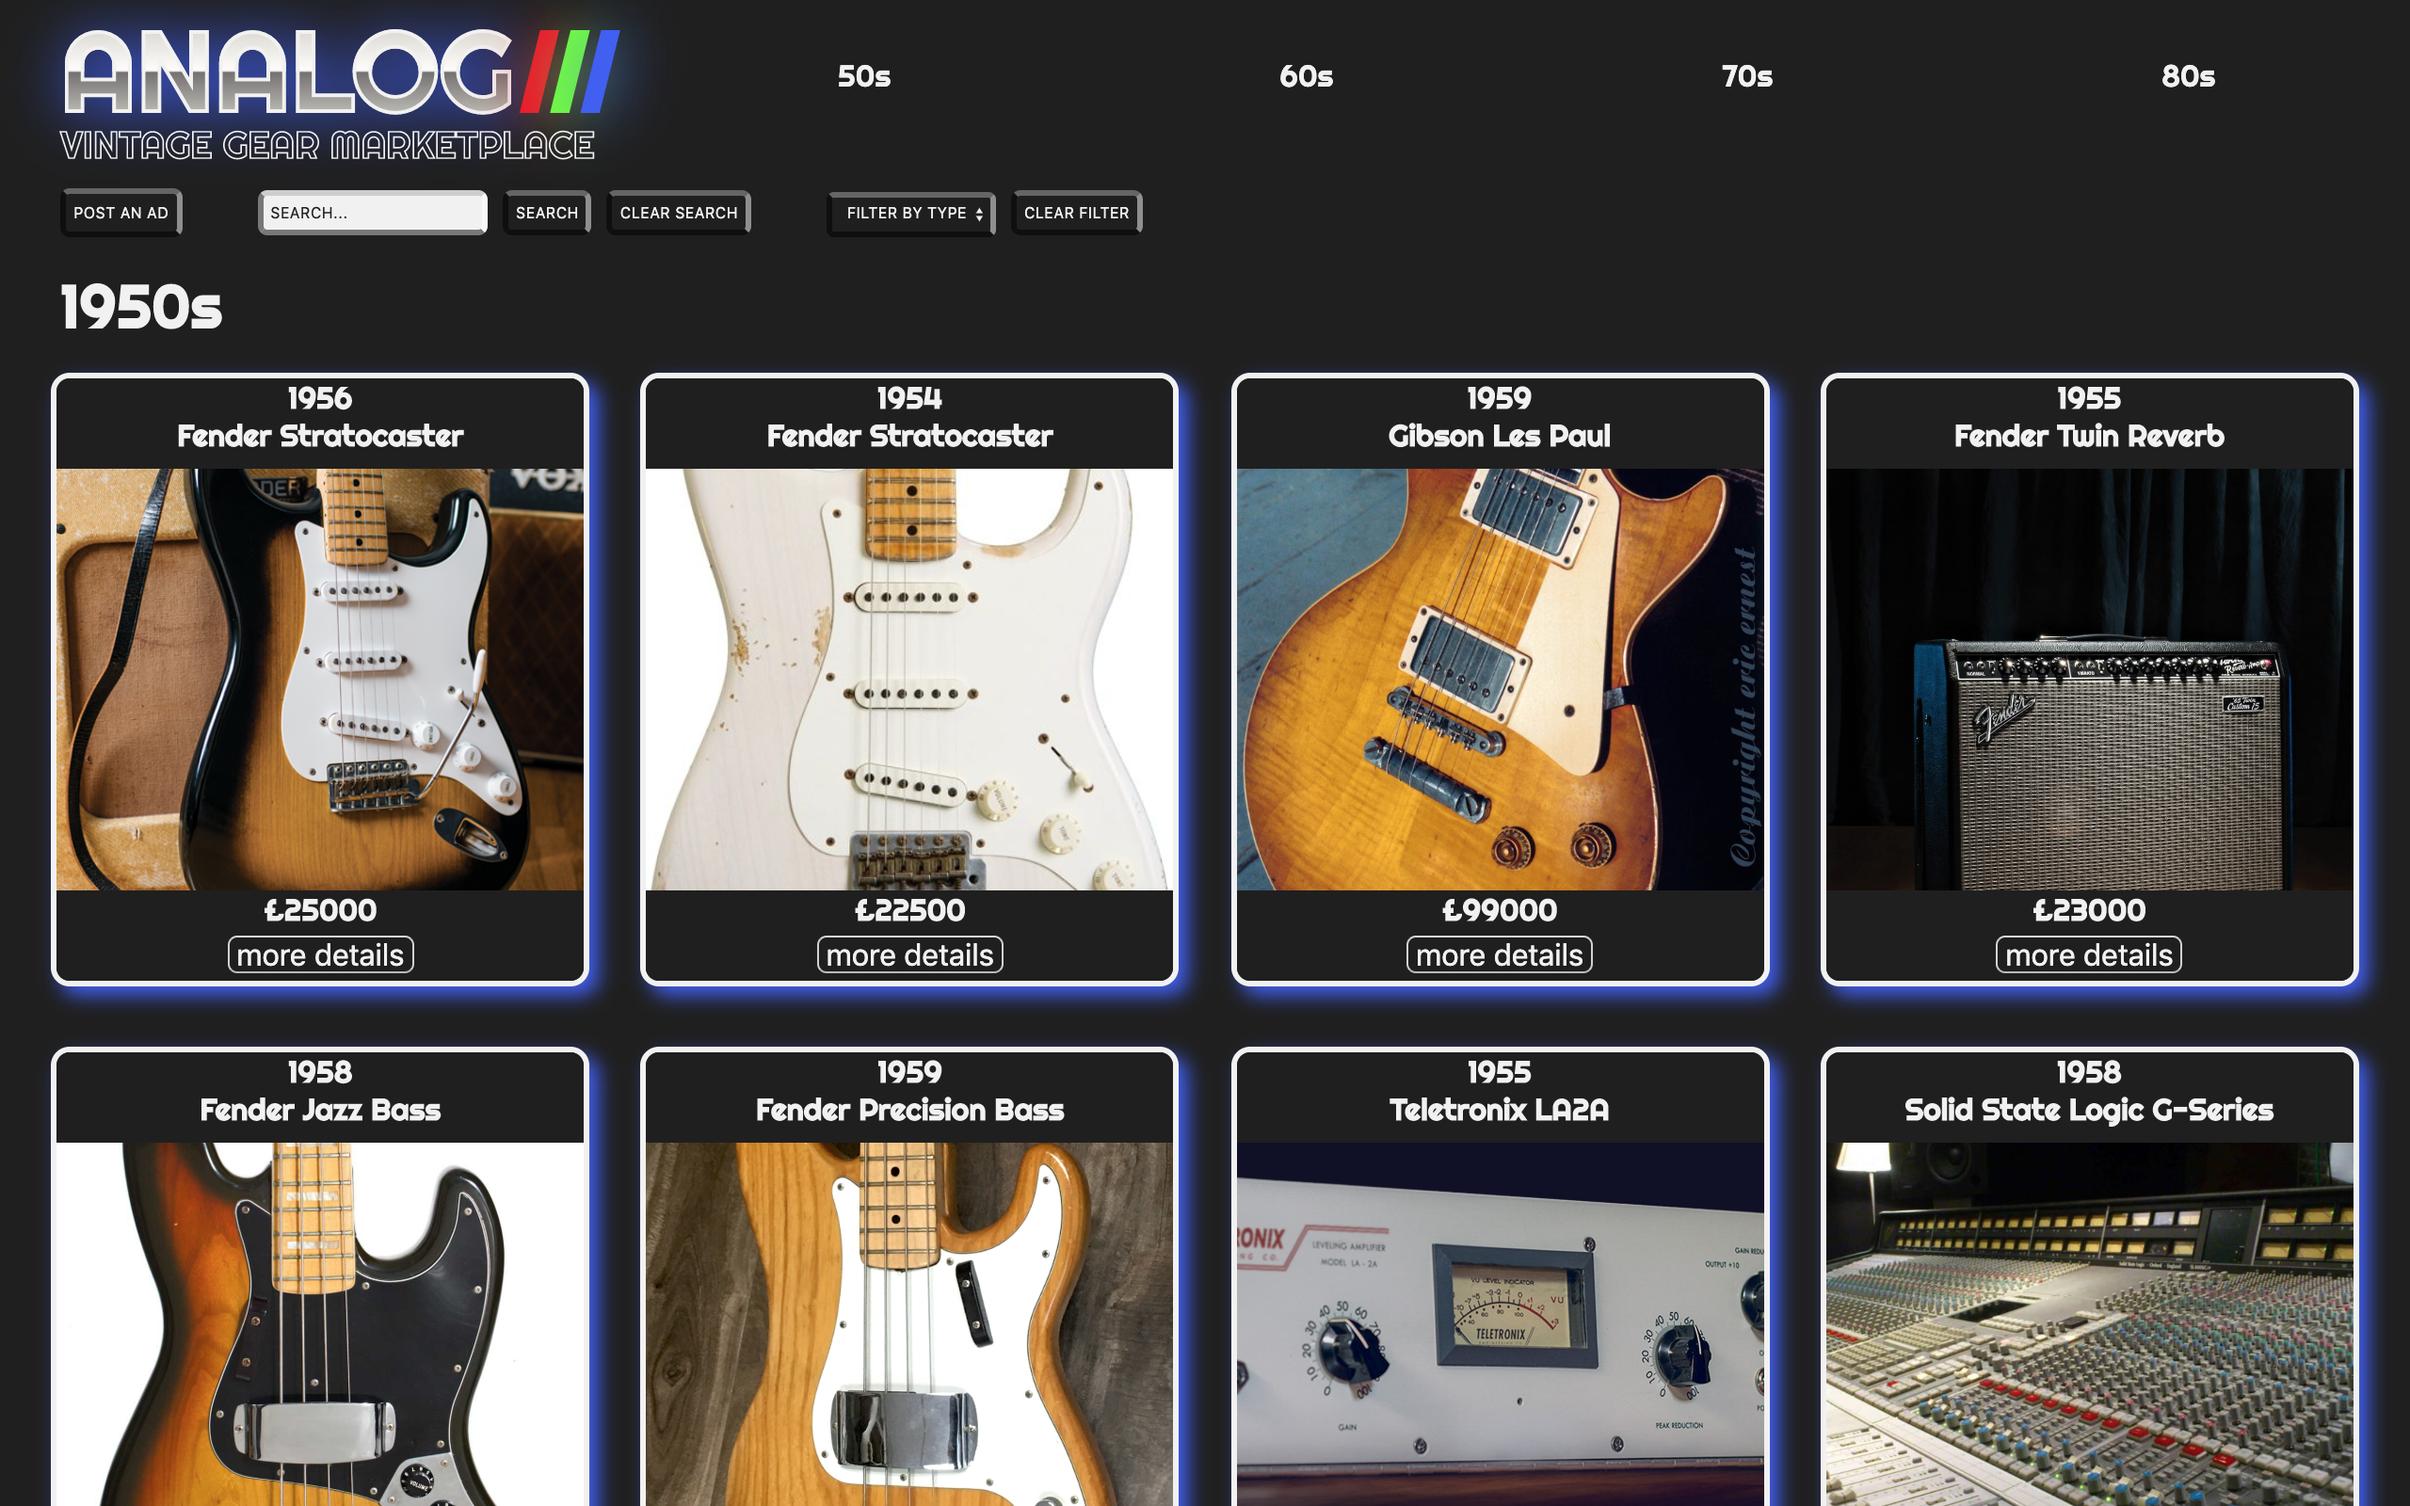
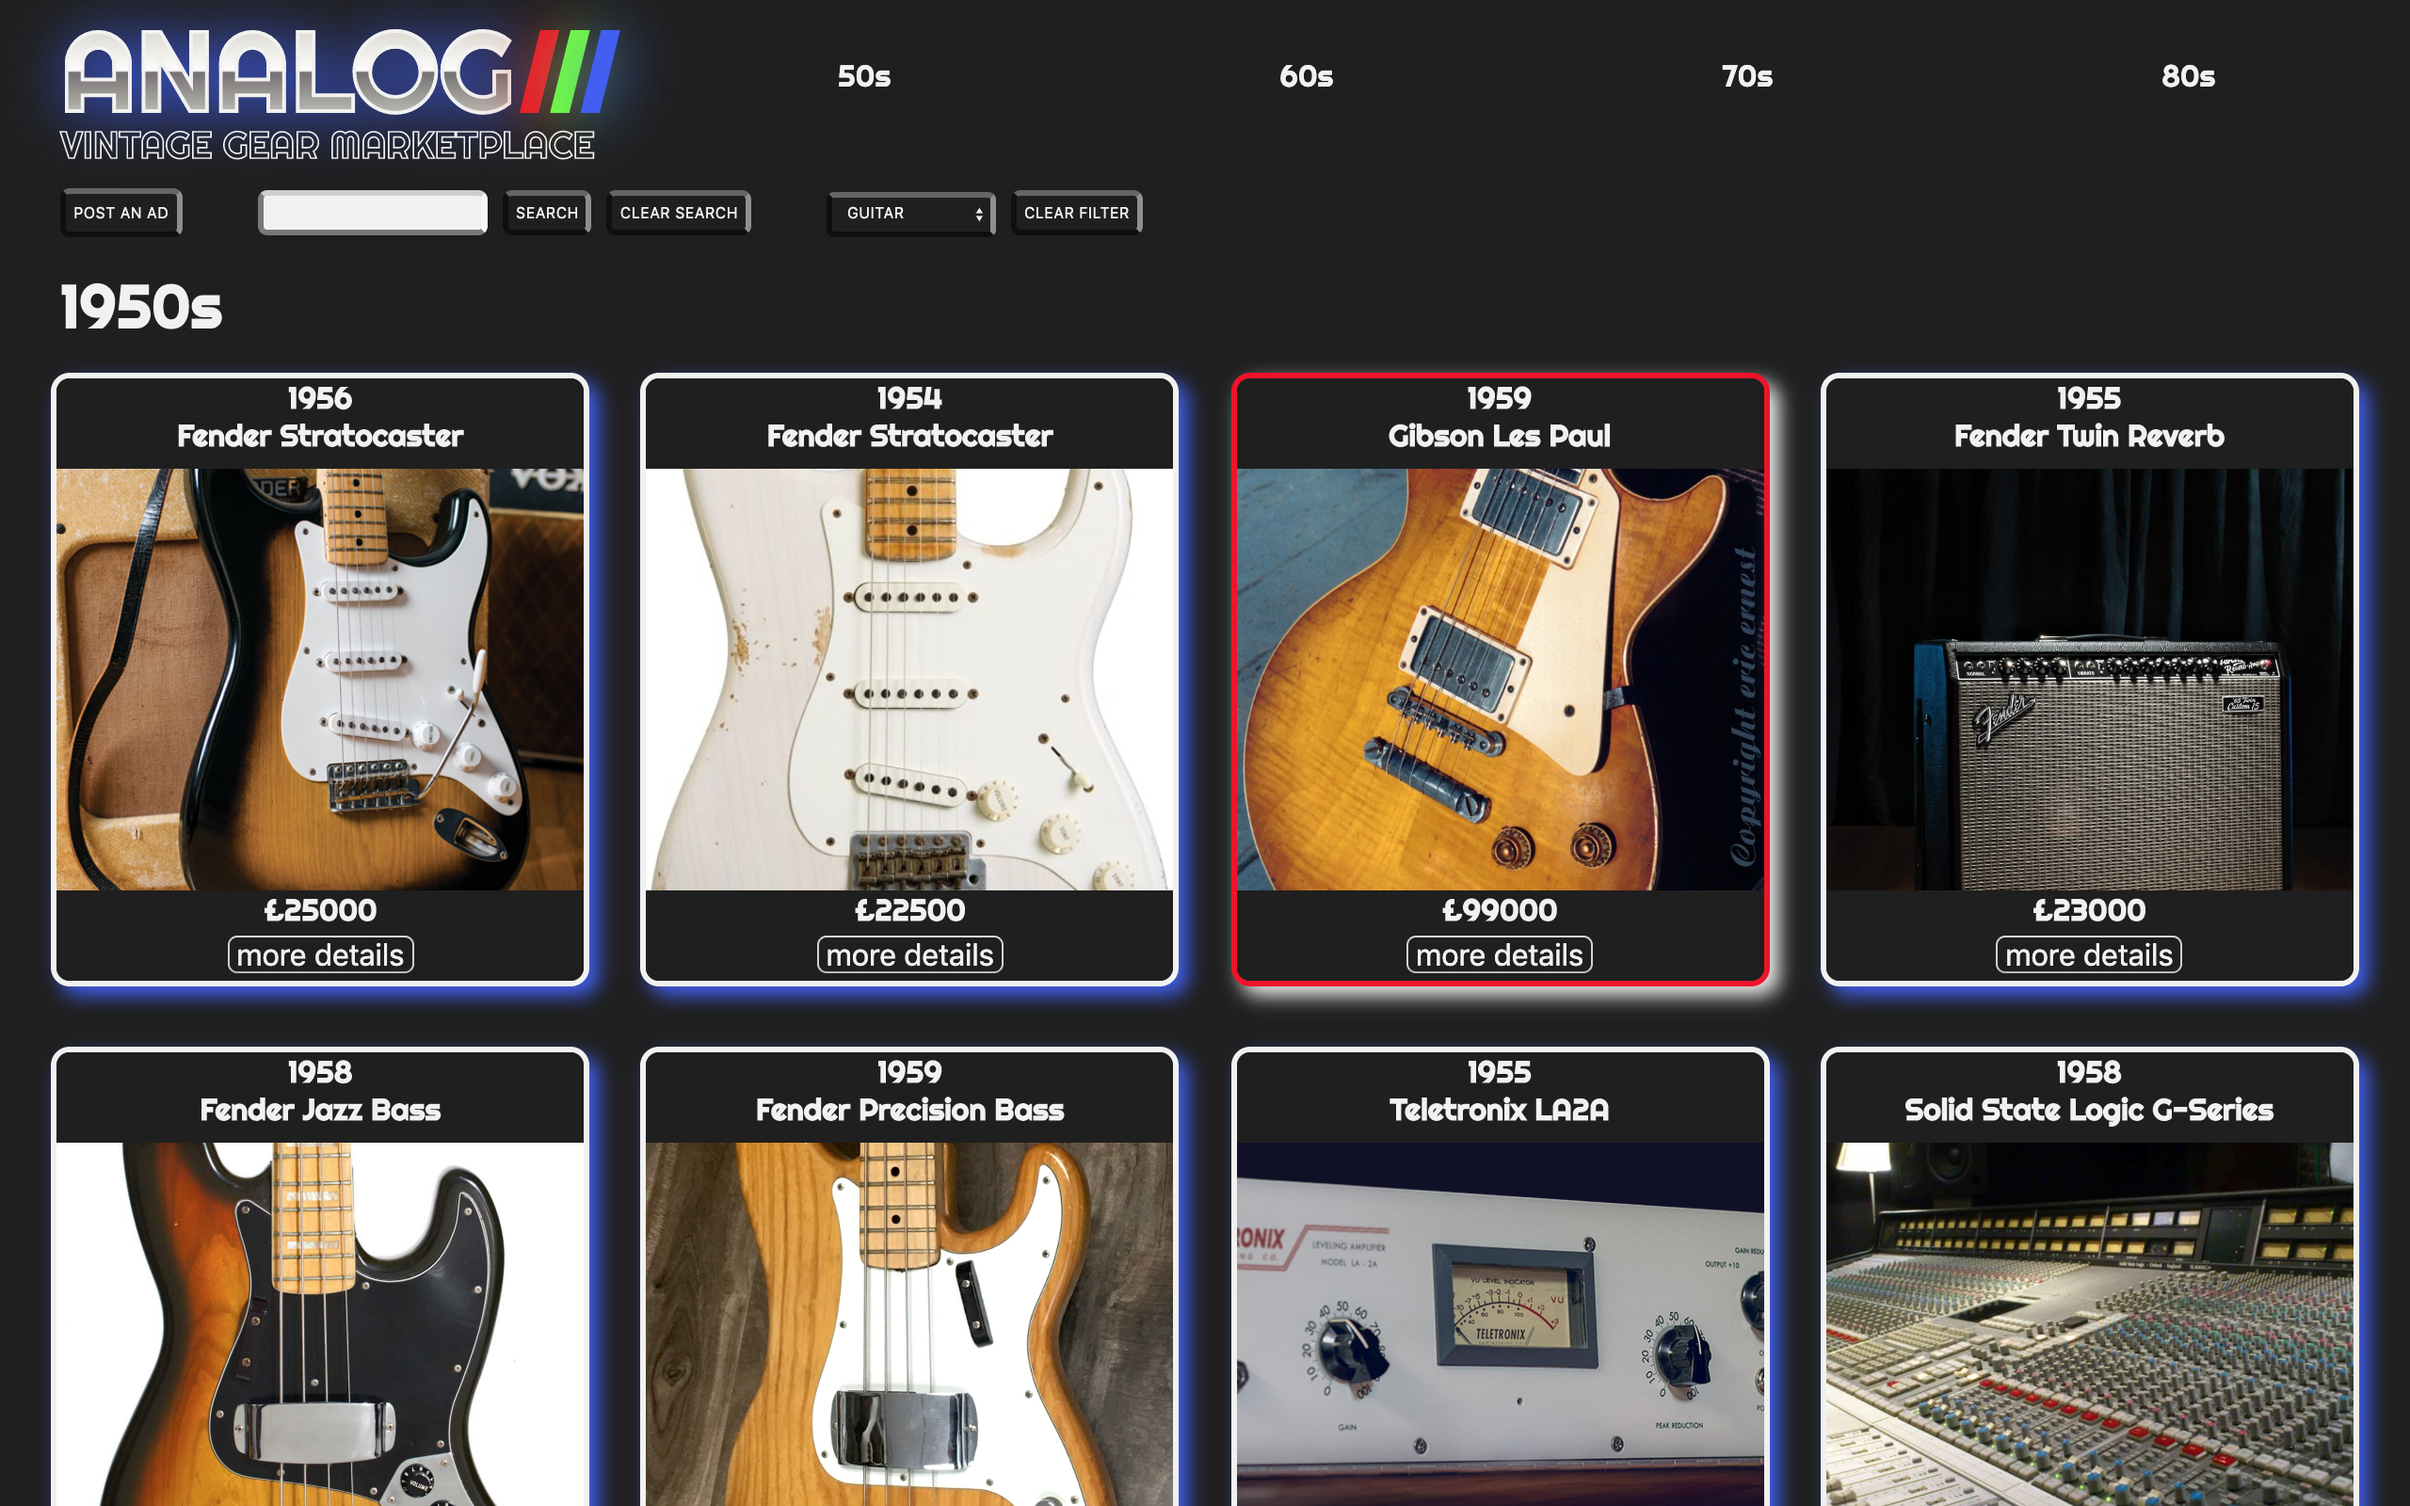
Added hover effect to cards.

Changed region(s): [[0.5, 0.25, 0.75, 0.6875], [0.5, 0.25, 0.5312, 0.2812], [0.3438, 0.125, 0.375, 0.1562]]

diff --git a/client/src/css/style.css b/client/src/css/style.css
@@ -3,23 +3,25 @@
   padding: 0; }
 
 html {
-  background-color: #1f1f1f;
+  background-color: #1F1F1F;
   font-family: 'Righteous'; }
 
 .nav {
   display: flex;
-  background-color: #1f1f1f;
+  background-color: #1F1F1F;
   height: 5em;
   margin-left: 2em; }
+  .nav-a {
+    text-decoration: none; }
   .nav-link {
     text-decoration: none;
     padding-bottom: 1em;
-    color: #f1f1f1; }
+    color: #F1F1F1; }
     .nav-link:hover {
       color: #F10C20;
       text-decoration: underline; }
   .nav-links-div {
-    background-color: #1f1f1f;
+    background-color: #1F1F1F;
     width: 100%;
     display: flex;
     justify-content: space-around;
@@ -36,7 +38,7 @@ html {
   display: flex;
   justify-content: flex-start;
   align-content: center;
-  background-color: #1f1f1f;
+  background-color: #1F1F1F;
   margin: 1.25em 0 0 2em; }
 
 .user-input-filter {
@@ -46,7 +48,7 @@ html {
   margin-left: 2em; }
 
 .user-input-btn, .user-input-select, .user-input-search {
-  background: #f1f1f1;
+  background: #F1F1F1;
   border-bottom: 3px inset rgba(0, 0, 0, 0.5);
   border-left: 3px inset rgba(0, 0, 0, 0.5);
   border-right: 3px inset rgba(255, 255, 255, 0.5);
@@ -54,56 +56,59 @@ html {
   box-sizing: border-box;
   border-radius: 5px;
   margin-right: 1em;
-  color: #f1f1f1;
+  color: #F1F1F1;
   cursor: pointer;
   font-size: 0.5rem;
   padding: .25rem;
   text-transform: uppercase;
-  background: #1f1f1f; }
+  background: #1F1F1F; }
   .user-input-btn:focus, .user-input-btn:hover, .user-input-select:focus, .user-input-select:hover, .user-input-search:focus, .user-input-search:hover {
-    background: #f1f1f1;
-    color: #1f1f1f; }
+    background: #F1F1F1;
+    color: #1F1F1F; }
 
 .user-input-select {
   height: 3em;
   margin-right: 1em; }
 
 .user-input-search {
-  background-color: #f1f1f1;
+  background-color: #F1F1F1;
   width: 15.3em;
   margin-right: 1em; }
   .user-input-search::placeholder {
-    color: #1f1f1f; }
+    color: #1F1F1F; }
   .user-input-search:focus, .user-input-search:hover {
-    background: #1f1f1f;
-    color: #f1f1f1; }
+    background: #1F1F1F;
+    color: #F1F1F1; }
     .user-input-search:focus::placeholder, .user-input-search:hover::placeholder {
-      color: #f1f1f1; }
+      color: #F1F1F1; }
 
 .card {
   margin: 1em 0 1em 0;
   height: 20em;
   text-align: center;
   border-radius: 10px;
-  background-color: #1f1f1f;
-  border: 3px solid #f1f1f1;
+  background-color: #1F1F1F;
+  border: 3px solid #F1F1F1;
   width: 17.5em;
-  -webkit-text-fill-color: #f1f1f1;
+  -webkit-text-fill-color: #F1F1F1;
   -webkit-text-stroke: 0;
   -webkit-filter: drop-shadow(5px 5px 5px #3F59F4); }
+  .card:hover {
+    border: 3px solid #F10C20;
+    -webkit-filter: drop-shadow(5px 5px 5px #F1F1F1); }
   .card-decade-h1 {
     text-align: left;
     margin: 0.5em 0 0 1em;
-    background-color: #1f1f1f;
-    color: #f1f1f1; }
+    background-color: #1F1F1F;
+    color: #F1F1F1; }
   .card-div {
     display: flex;
     justify-content: space-evenly;
     flex-wrap: wrap;
-    background-color: #1f1f1f; }
+    background-color: #1F1F1F; }
   .card-top-div {
     height: 15%;
-    background-color: #1f1f1f;
+    background-color: #1F1F1F;
     border-radius: 7px 7px 0 0; }
     .card-top-div-h1 {
       font-size: 1rem; }
@@ -115,7 +120,7 @@ html {
     height: 70%; }
   .card-bottom-div {
     height: 15%;
-    background-color: #1f1f1f;
+    background-color: #1F1F1F;
     margin-top: -0.25em;
     border-radius: 0 0 7px 7px; }
     .card-bottom-div-h3 {
@@ -126,7 +131,7 @@ html {
     margin: 0.25em 0 0.25em 0;
     border-radius: 5px;
     color: black;
-    background-color: #1f1f1f; }
+    background-color: #1F1F1F; }
 
 .big-card-div {
   display: flex;
@@ -139,22 +144,22 @@ html {
   width: 100%; }
 
 .big-card-layout {
-  background-color: #f1f1f1;
+  background-color: #F1F1F1;
   text-align: center;
   padding: 0 5em 0 5em; }
 
 .big-card-h1 {
-  color: #1f1f1f;
+  color: #1F1F1F;
   font-size: 2.5em;
   margin-top: 1em; }
 
 .big-card-h3 {
-  color: #1f1f1f;
+  color: #1F1F1F;
   font-size: 2.5em;
   margin-top: 1em; }
 
 .big-card-p {
-  color: #1f1f1f;
+  color: #1F1F1F;
   font-size: 1.5em;
   margin-top: 1em; }
 
@@ -164,13 +169,13 @@ html {
   margin-top: 1em; }
 
 .form-content-div {
-  background-color: #1f1f1f; }
+  background-color: #1F1F1F; }
 
 .form-div {
   display: flex;
   flex-direction: column;
   align-content: center;
-  background-color: #1f1f1f; }
+  background-color: #1F1F1F; }
 
 .stamp {
   transform: rotate(12deg);
@@ -197,7 +202,7 @@ html {
 .vectro {
   position: relative;
   -webkit-text-fill-color: transparent;
-  -webkit-text-stroke: 0.1px #f1f1f1;
+  -webkit-text-stroke: 0.1px #F1F1F1;
   font-size: 60px; }
   .vectro-h4 {
     font-size: 20px;
@@ -238,7 +243,7 @@ html {
     margin-left: -20px; }
 
 .windows .vectro {
-  -webkit-text-stroke: 4px #f1f1f1; }
+  -webkit-text-stroke: 4px #F1F1F1; }
 
 .windows .vectro-red {
   padding-right: 30px; }

diff --git a/client/src/components/NavBar.js b/client/src/components/NavBar.js
@@ -7,14 +7,16 @@ const NavBar = (props) => {
         <nav className="nav">
 
             <div>
-                <h1 className="vectro">
-                    {/* must make logo "home" clickable */}
-                    <span className="vectro-body">ANALOG</span>
-                    <span className="vectro-red">I</span>
-                    <span className="vectro-green">I</span>
-                    <span className="vectro-blue">I</span>
-                </h1>
-                <h4 className="vectro vectro-h4">VINTAGE GEAR MARKETPLACE</h4>
+                <a className="nav-a" href="/">
+                    <h1 className="vectro">
+                        {/* must make logo "home" clickable */}
+                        <span className="vectro-body">ANALOG</span>
+                        <span className="vectro-red">I</span>
+                        <span className="vectro-green">I</span>
+                        <span className="vectro-blue">I</span>
+                    </h1>
+                    <h4 className="vectro vectro-h4">VINTAGE GEAR MARKETPLACE</h4>
+                </a>
             </div>
 
             <div className="nav-links-div">

diff --git a/client/src/sass/main.scss b/client/src/sass/main.scss
@@ -1,5 +1,5 @@
-$fadedBlack: #1f1f1f;
-$fadedWhite: #f1f1f1;
+$fadedBlack: #1F1F1F;
+$fadedWhite: #F1F1F1;
 $neonRed: #F10C20;
 $neonGreen: #6BFF2B;
 $neonBlue: #3F59F4;
@@ -19,6 +19,10 @@ html {
     background-color: $fadedBlack;
     height: 5em;
     margin-left: 2em;
+
+    &-a {
+        text-decoration: none;
+    }
 
     &-link {
         text-decoration: none;
@@ -128,6 +132,11 @@ html {
     -webkit-text-fill-color: $fadedWhite;
     -webkit-text-stroke: 0;
     -webkit-filter: drop-shadow(5px 5px 5px $neonBlue);
+
+    &:hover {
+        border: 3px solid $neonRed;
+        -webkit-filter: drop-shadow(5px 5px 5px $fadedWhite);
+    }
 
     &-decade-h1 {
         text-align: left;

diff --git a/client/src/containers/DecadeContainer.js b/client/src/containers/DecadeContainer.js
@@ -55,10 +55,10 @@ class DecadeContainer extends Component {
 
         let searchedCards = searchedItems.map((item) => {
             return <Card
-                item={item}
-                key={item.id}
-                displayFunction={this.props.displayFunction}
-            />
+                        item={item}
+                        key={item.id}
+                        displayFunction={this.props.displayFunction}
+                    />
         })
 
         this.setState({

diff --git a/client/src/containers/ContentContainer.js b/client/src/containers/ContentContainer.js
@@ -152,7 +152,6 @@ class ContentContainer extends Component {
                 <Route exact path="/"
                     render={
                         () => <HomeContainer
-                            word="Home"
                         />}
                 />
                 <Route exact path="/50s"
